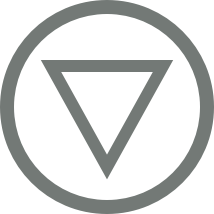
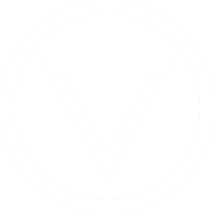
new vote button mechanic

Changed region(s): [[0.0, 0.0, 1.0, 1.0], [0.1963, 0.2804, 0.8131, 0.8411]]

diff --git a/index.html b/index.html
@@ -2,11 +2,10 @@
 <html xmlns="http://www.w3.org/1999/xhtml"
   lang="en-GB" xml:lang="en-GB">
   <head>
-    <link href="/styles/main.css" rel="stylesheet" type="text/css" />
+    <link href="./styles/main.css" rel="stylesheet" type="text/css" />
     <link href='https://fonts.googleapis.com/css?family=Montserrat:400,700' rel='stylesheet' type='text/css'/>
     <link href='https://fonts.googleapis.com/css?family=Roboto:400,100,300,500,700,900,400italic' rel='stylesheet' type='text/css'/>
     <meta charset="UTF-8"/>
-    <script src="/scripts/votebuttons.js"></script>
     <title>Predictions</title>
   </head>
   <body>
@@ -17,16 +16,12 @@
       <aside id="sidebuttons">
         <a href="#">
           <img  class="votebutton voteup"
-                src="/images/Upvote.png"
-                onmouseover="toggleHover(this, '/images/Upvote-highlight.png');"
-                onmouseout="toggleHover(this, '/images/Upvote.png');" />
+                src="./images/Upvote.png"/>
         </a>
         <scan class="votes">150</scan>
         <a href="#">
           <img  class="votebutton votedown"
-                src="/images/Downvote.png"
-                onmouseover="toggleHover(this, '/images/Downvote-highlight.png');"
-                onmouseout="toggleHover(this, '/images/Downvote.png');" />
+                src="./images/Downvote.png"/>
         </a>
       </aside>
       <section id="link">

diff --git a/styles/main.css b/styles/main.css
@@ -51,14 +51,23 @@ aside#sidebuttons {
   width: 90%;
   height: 90%;
   margin: 0;
+  background-color: rgb(115,121,118);
 }
 
 .votedown {
-  padding-top: 0.3em;
+  margin-top: 0.3em;
 }
 
 .voteup {
-  padding-bottom: 0.3em;
+  margin-bottom: 0.3em;
+}
+
+.votedown:hover {
+  background-color: rgb(161,57,69);
+}
+
+.voteup:hover {
+  background-color: rgb(144,195,170);
 }
 
 .button {
